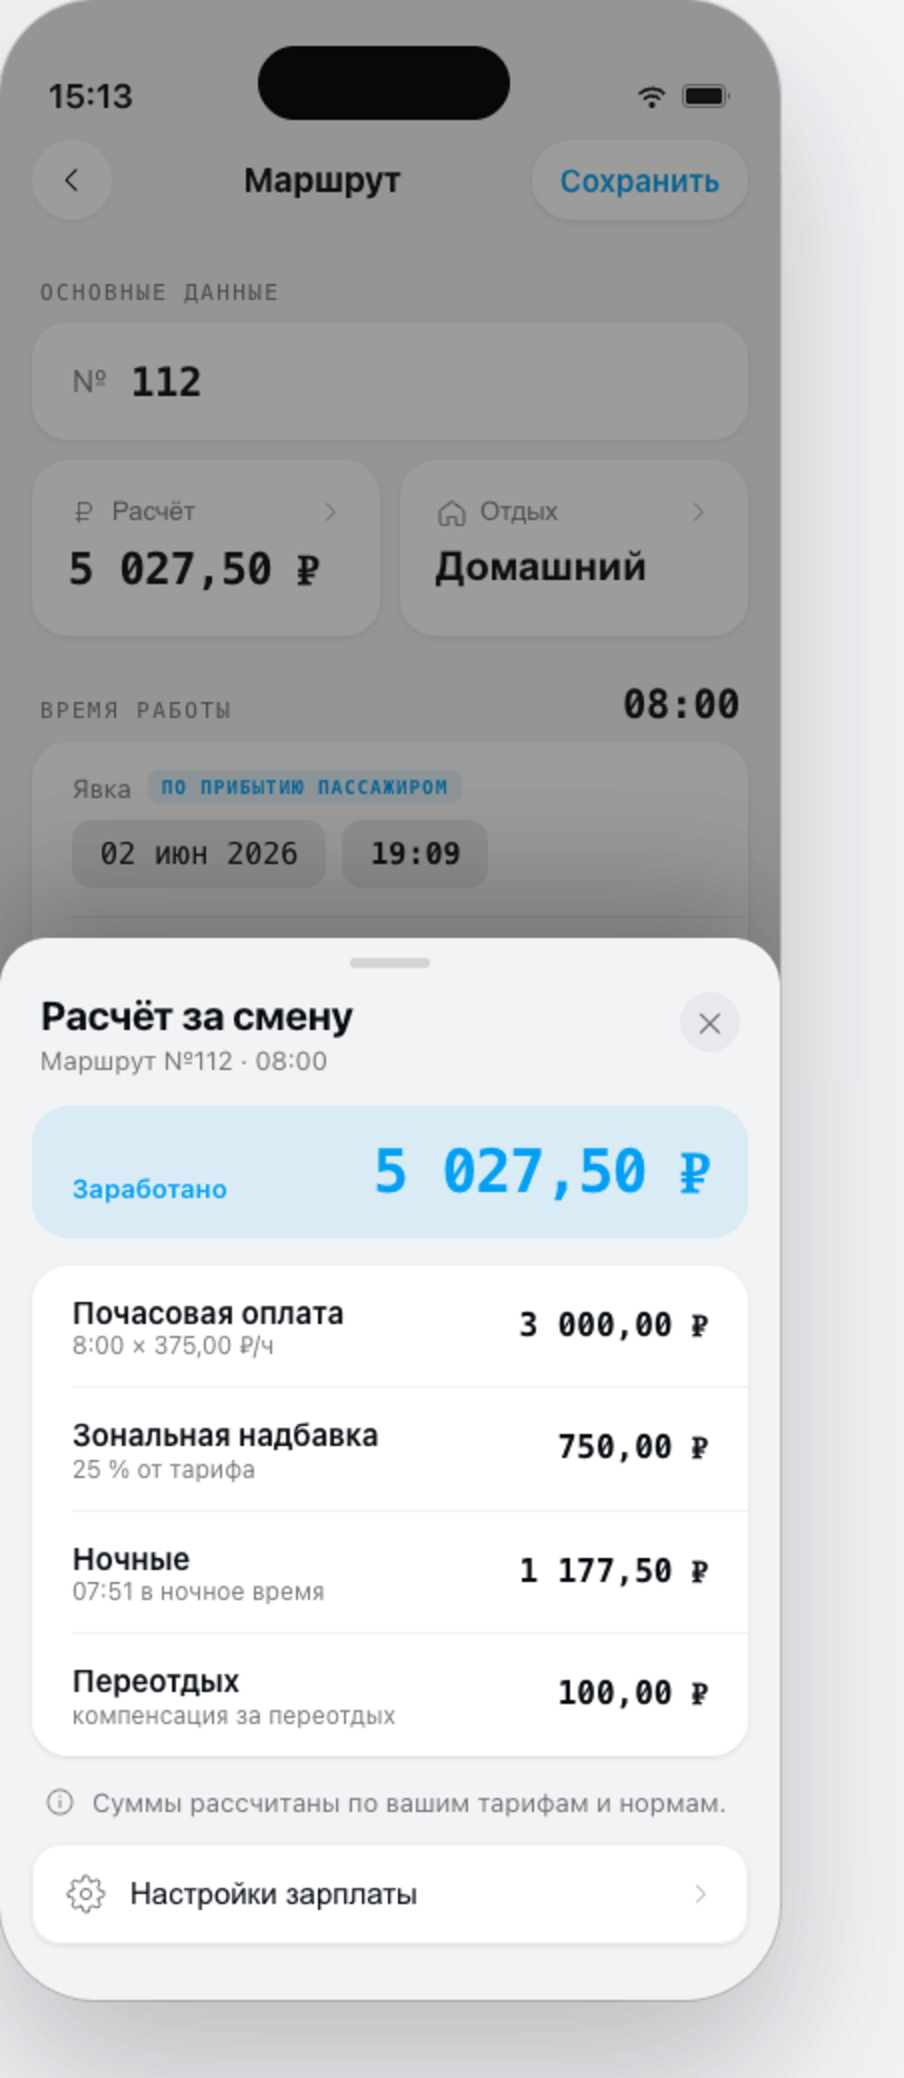
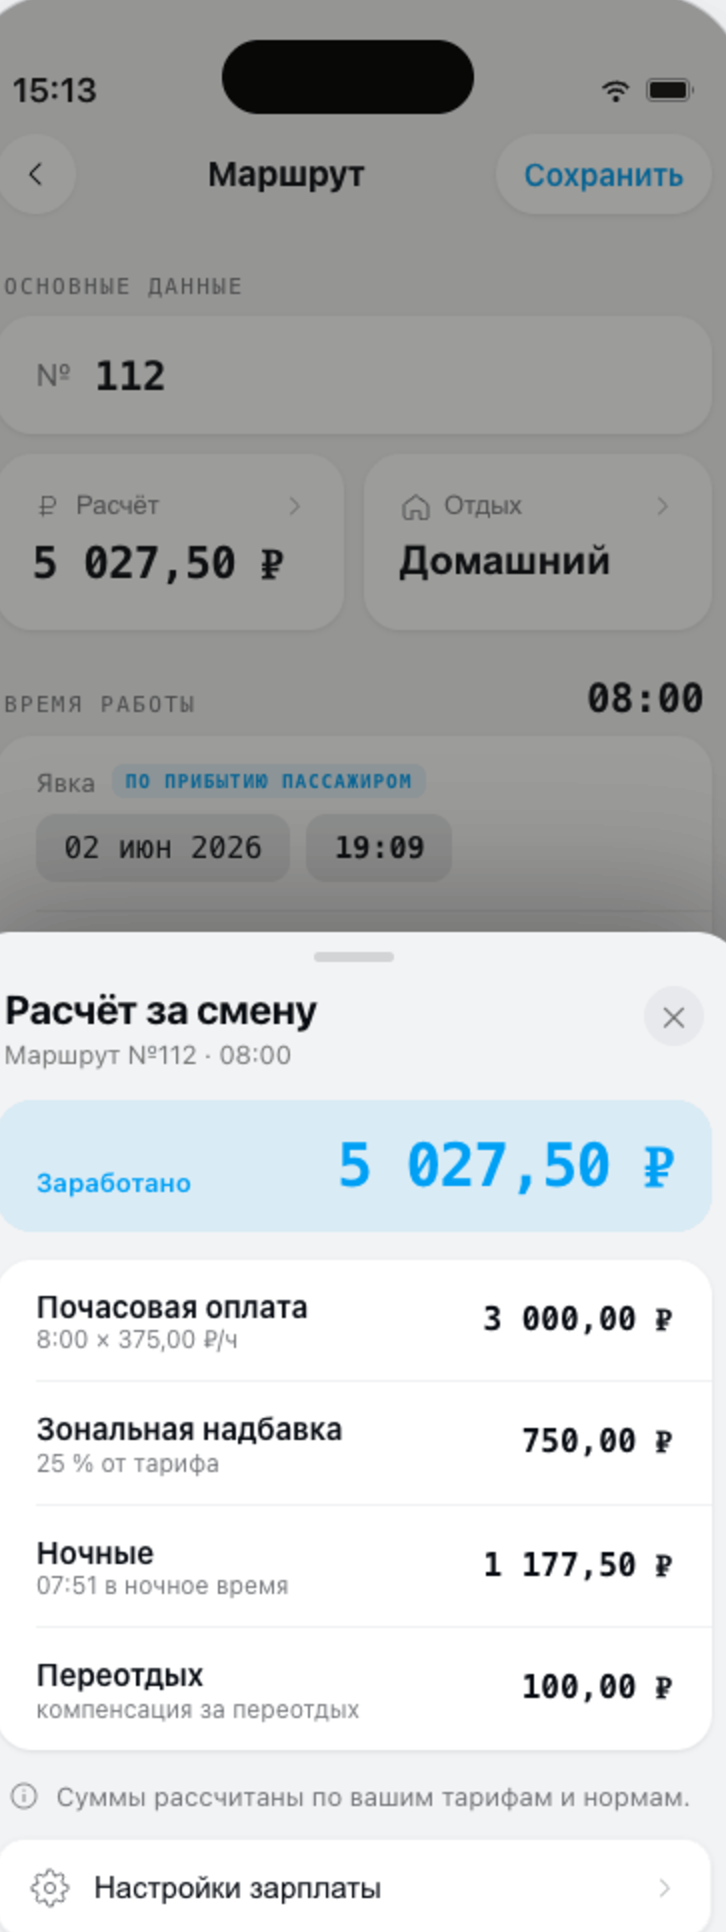
fix: обрезать hero-route-calc до экрана (убрать светлый холст и тень)
Экспорт этого скрина шёл с экраном на светлом холсте + запечённой
тенью, из-за чего вокруг был светлый прямоугольник больше экрана.
Обрезал до контента экрана (726×1932) — теперь во весь кадр, как
hero-trips; скругление и тень даёт CSS.

diff --git a/index.html b/index.html
@@ -82,7 +82,7 @@
     </div>
     <div class="hero-phones">
       <div class="hero-glow"></div>
-      <div class="phone hp-back"><img src="screenshots/hero-route-calc.png" alt="Экран маршрута смены с расчётом зарплаты за смену" width="904" height="2078"></div>
+      <div class="phone hp-back"><img src="screenshots/hero-route-calc.png" alt="Экран маршрута смены с расчётом зарплаты за смену" width="726" height="1932"></div>
       <div class="phone hp-front"><img src="screenshots/hero-trips.png" alt="Экран «Главный»: отработанные часы, текущий маршрут и список поездок" width="780" height="2000"></div>
     </div>
   </div>
